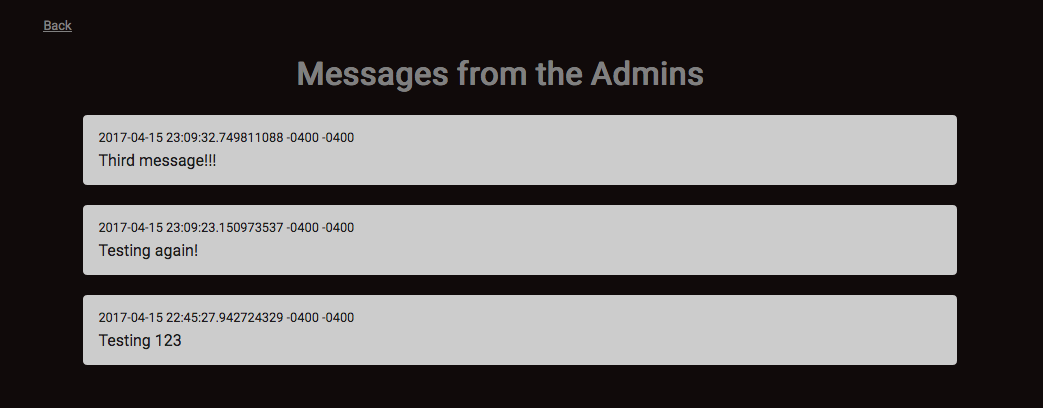
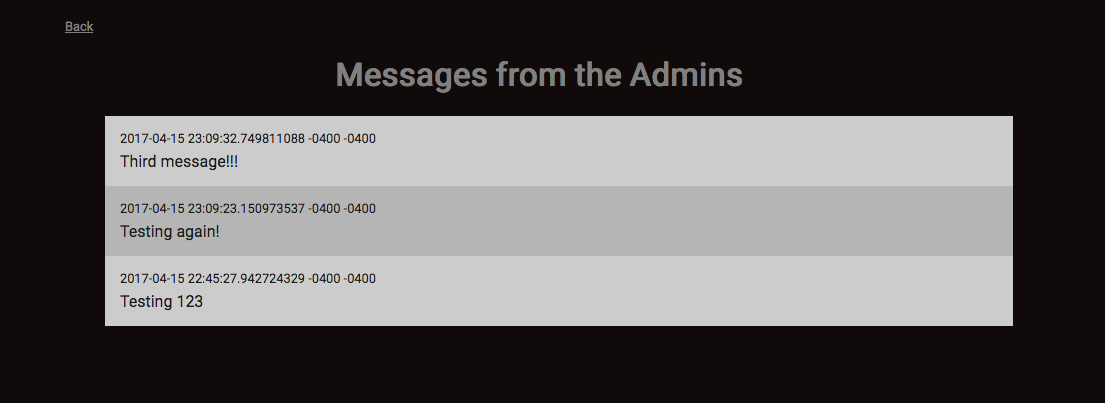
Style the list of messages more like the tables for consistency

Changed region(s): [[0.0614, 0.268, 0.9204, 0.8933], [0.2761, 0.1489, 0.675, 0.2382], [0.0307, 0.0298, 0.092, 0.0893]]

diff --git a/css/main.css b/css/main.css
@@ -67,10 +67,15 @@ ul#messages {
 }
 
 ul#messages li.message {
-  background-color: #ccc;
   padding: 15px;
-  border-radius: 4px;
-  margin-bottom: 20px;
+}
+
+ul#messages li.message:nth-child(odd) {
+  background-color: #ccc;
+}
+
+ul#messages li.message:nth-child(even) {
+  background-color: #b5b5b5;
 }
 
 ul#messages li.message div.date {

diff --git a/README.md b/README.md
@@ -9,7 +9,7 @@ A scoreboard application for capture the flag events, designed with a retro hack
 ![Admin Panel Screenshot](https://u.nya.is/rdxsgs.png)
 
 **The Messages Page**
-![Messages Screenshot](https://u.nya.is/hcdyli.png)
+![Messages Screenshot](https://u.nya.is/yxbyxc.png)
 
 
 ## Running the application
